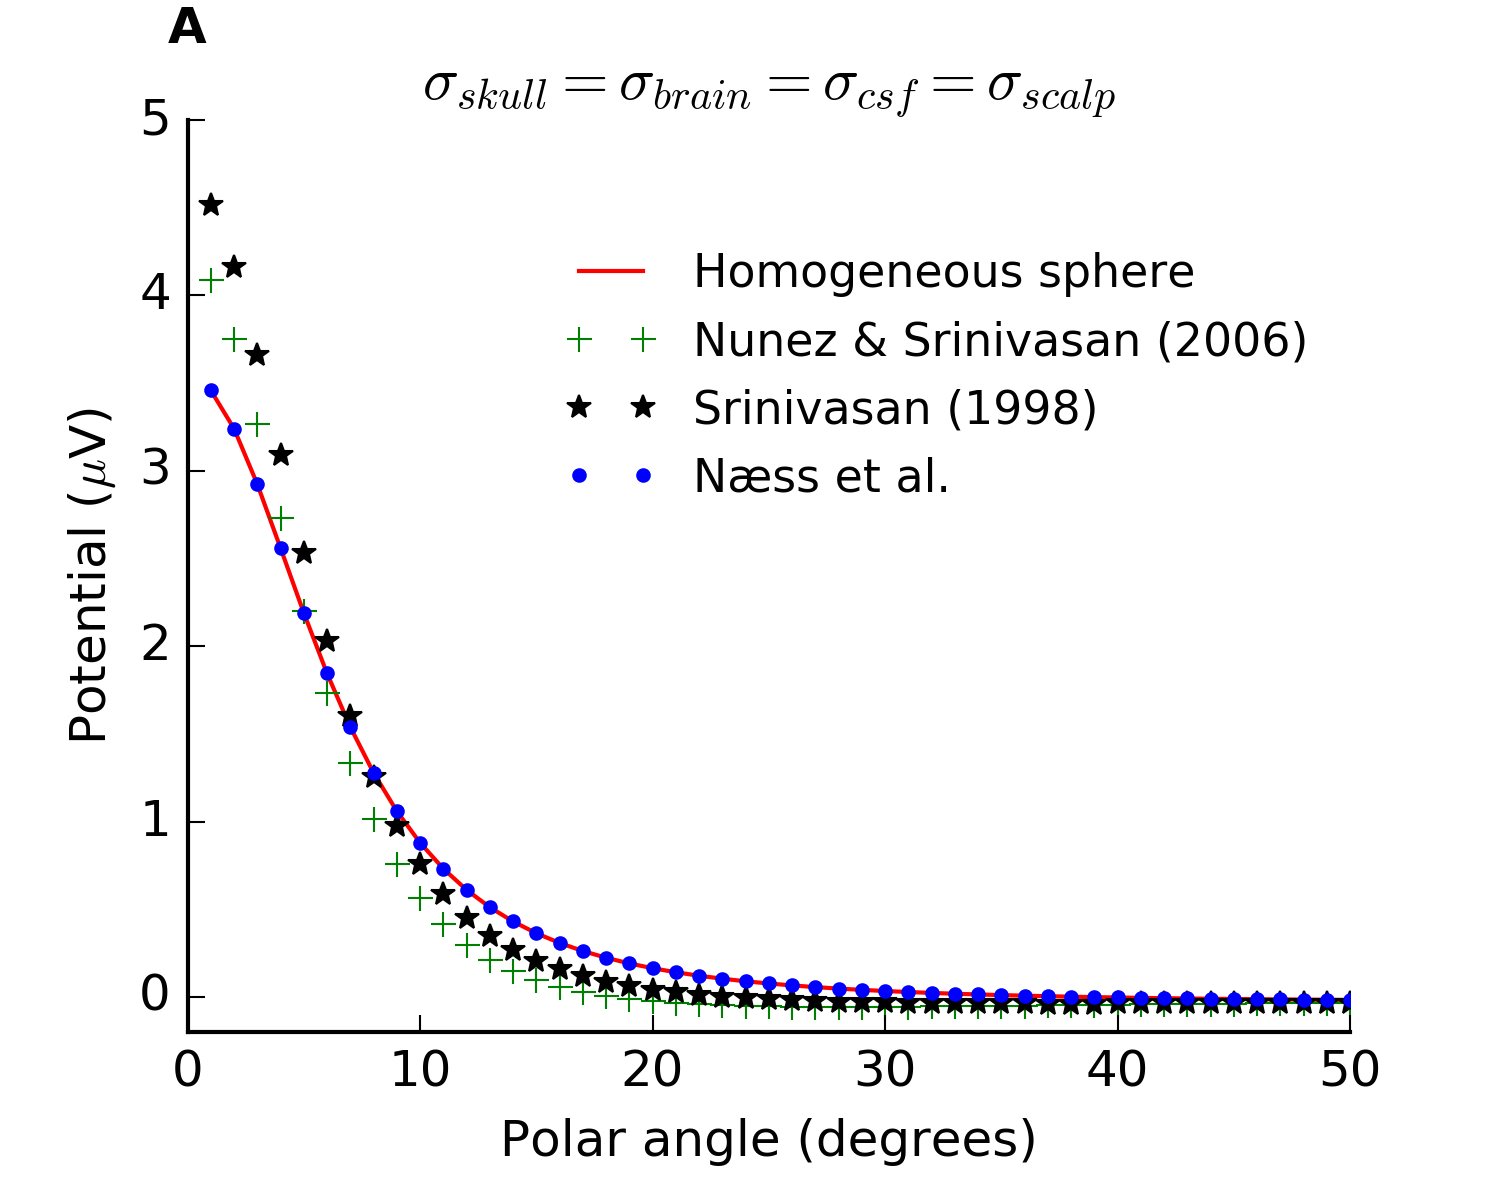
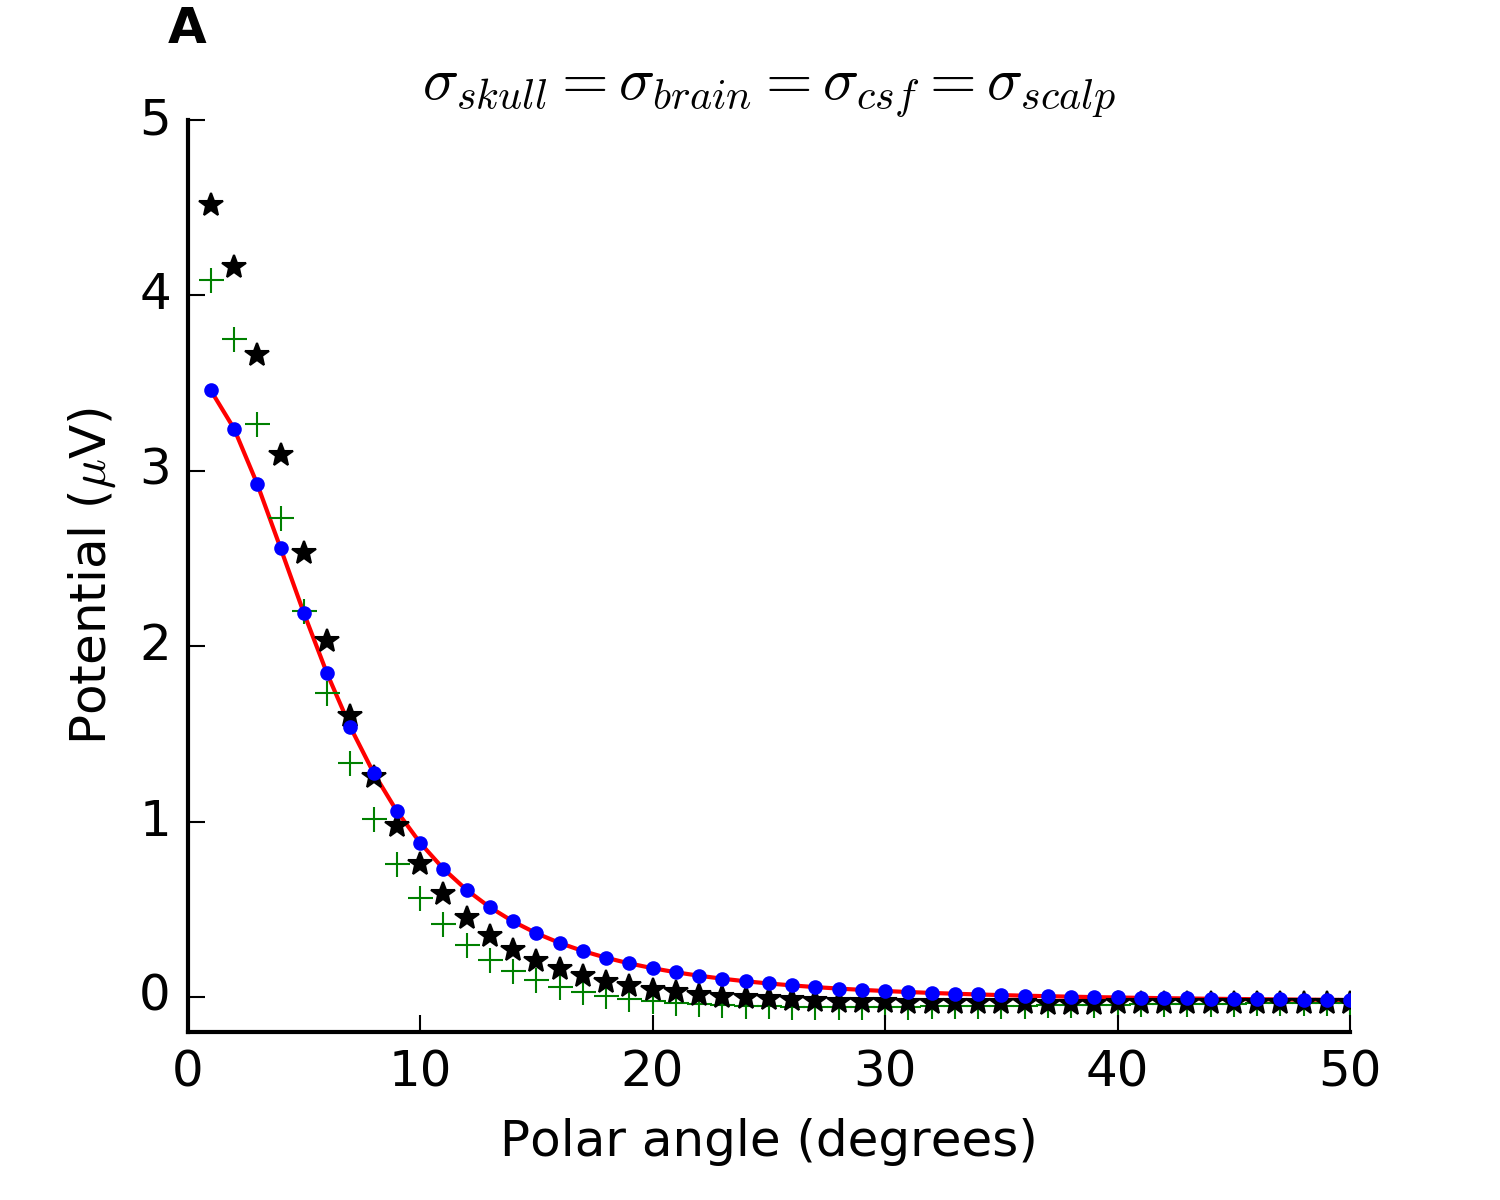
removed labels

Changed region(s): [[0.46, 0.2467, 0.8587, 0.4317], [0.46, 0.2158, 0.7973, 0.2467], [0.3987, 0.2158, 0.4293, 0.2467]]

diff --git a/figure4A.py b/figure4A.py
@@ -40,7 +40,7 @@ plt.plot(theta, phi_20_c_sanity, 'b.', label='Næss et al.')
 plt.xlabel('Polar angle (degrees)')
 plt.ylabel('Potential ($\mu$V)')
 plt.title('$\sigma_{skull} = \sigma_{brain} = \sigma_{csf} = \sigma_{scalp}$')
-plt.legend(frameon=False, bbox_to_anchor=(1, 0.9), fontsize=11)
+# plt.legend(frameon=False, bbox_to_anchor=(1, 0.9), fontsize=11)
 simplify_axes(fig.axes)
 mark_subplots(fig.axes, letters='A', xpos=0., ypos=1.1)
 plt.savefig(os.path.join('results', 'sanity.png'), dpi=300)
